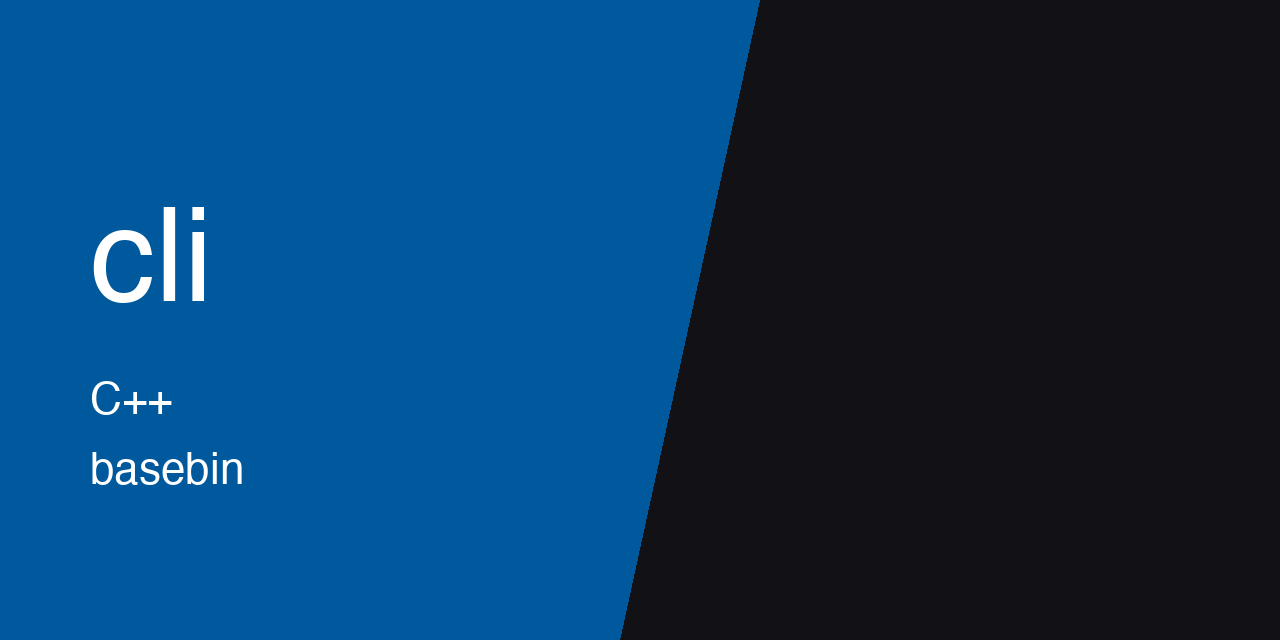
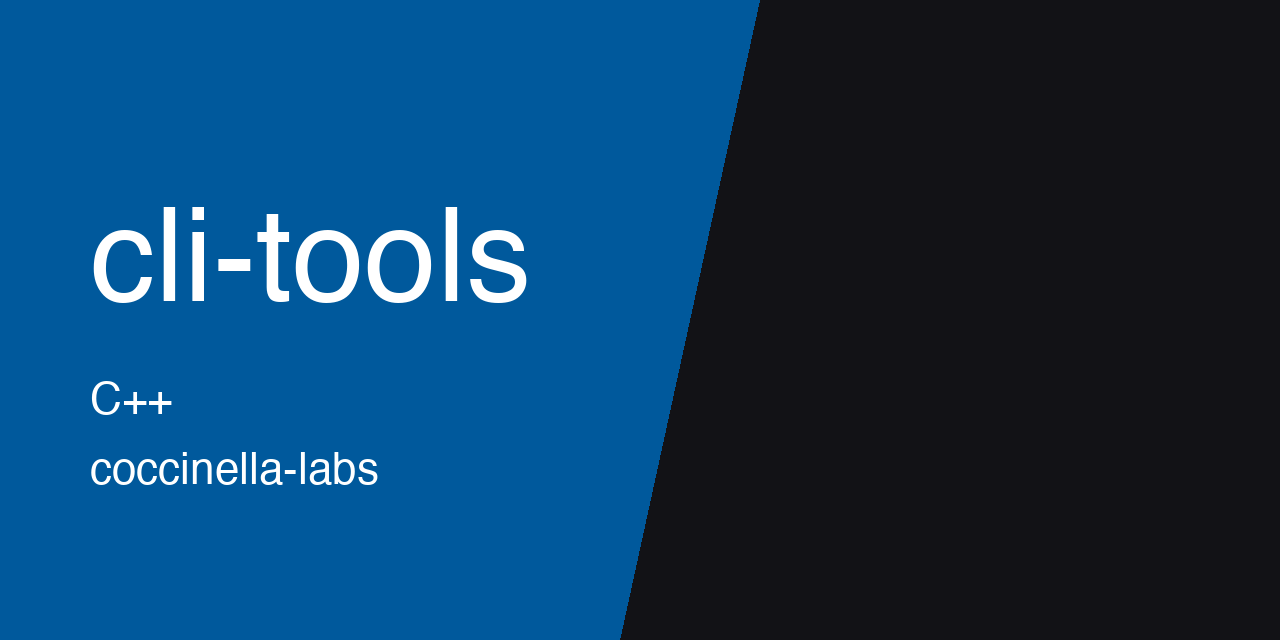
[docs] move thumbnail to coccinella-labs

Changed region(s): [[0.1562, 0.3125, 0.4062, 0.4688], [0.0625, 0.7188, 0.3125, 0.7812]]

diff --git a/README.md b/README.md
@@ -1,4 +1,8 @@
 <p align="center">
+  <img src="https://raw.githubusercontent.com/Coccinella-Labs/cli-tools/main/.github/assets/thumbnail.png" alt="cli-tools" width="100%">
+</p>
+
+<p align="center">
   <img src="https://raw.githubusercontent.com/coccinella-labs/cli-tools/main/.github/assets/thumbnail.png" alt="cli-tools" width="100%">
 </p>
 
